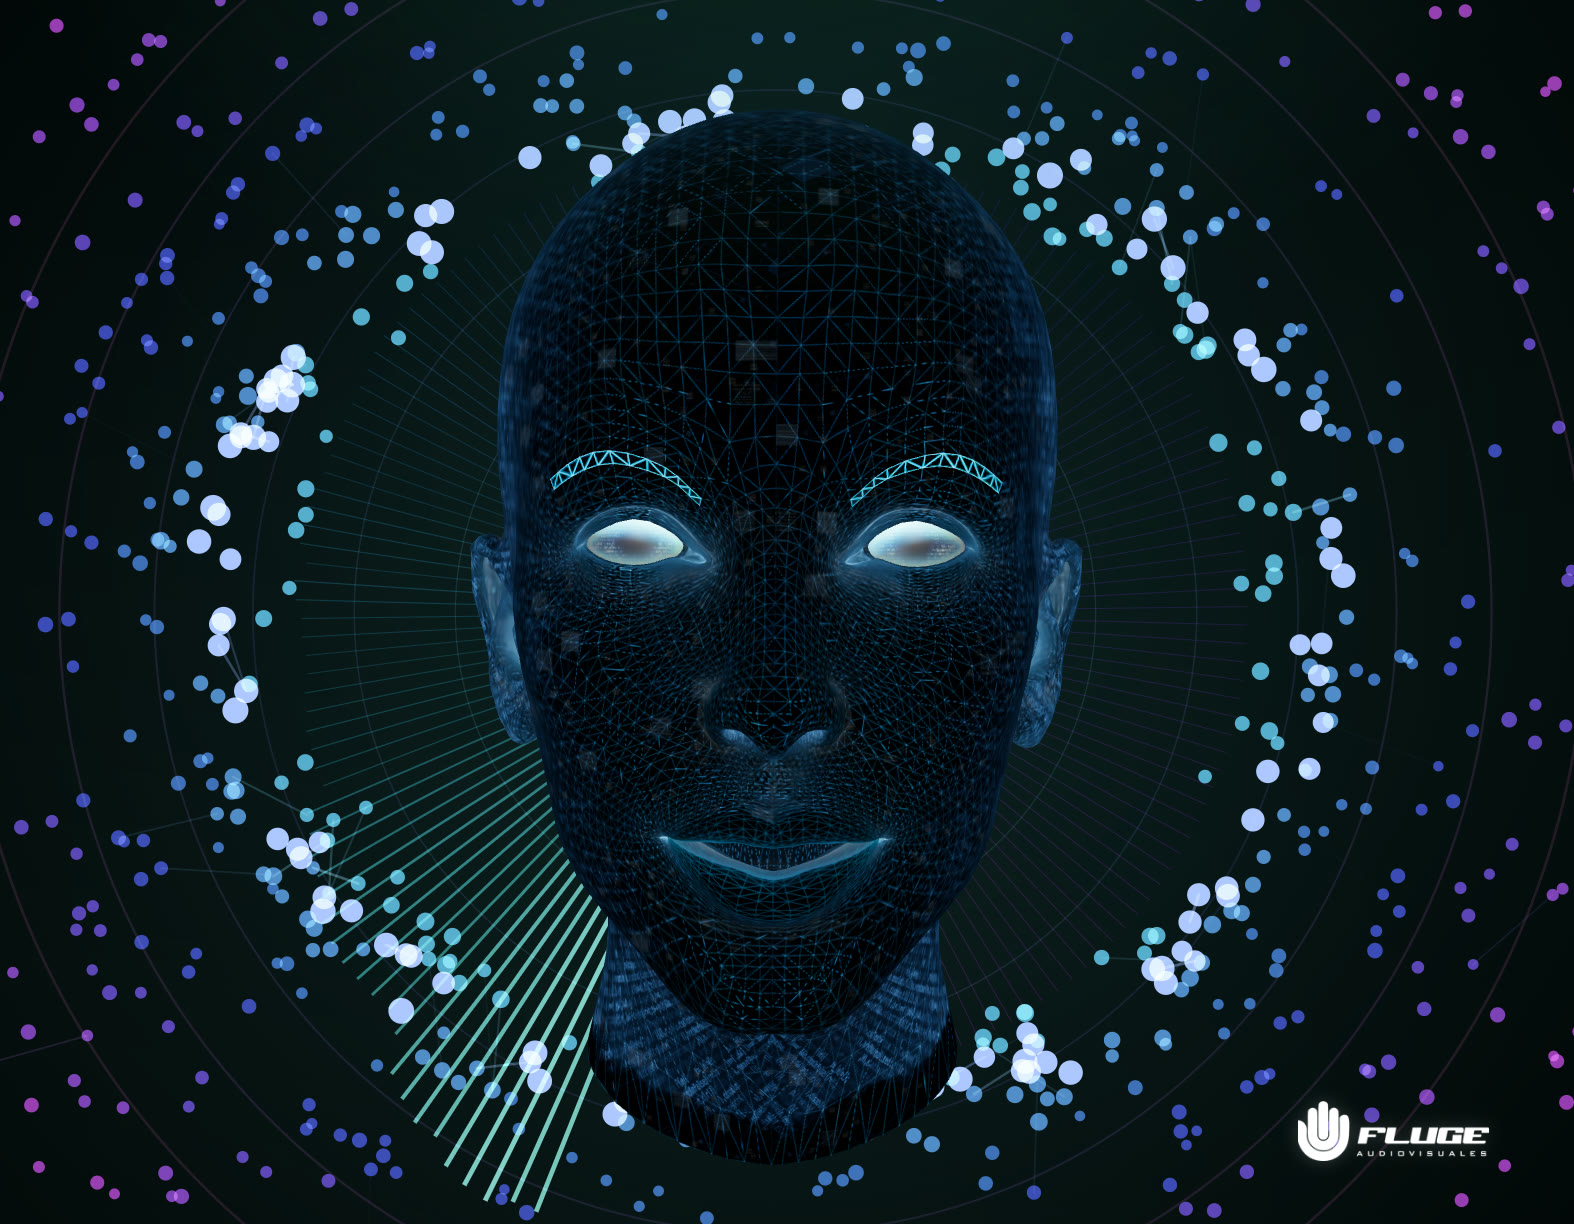
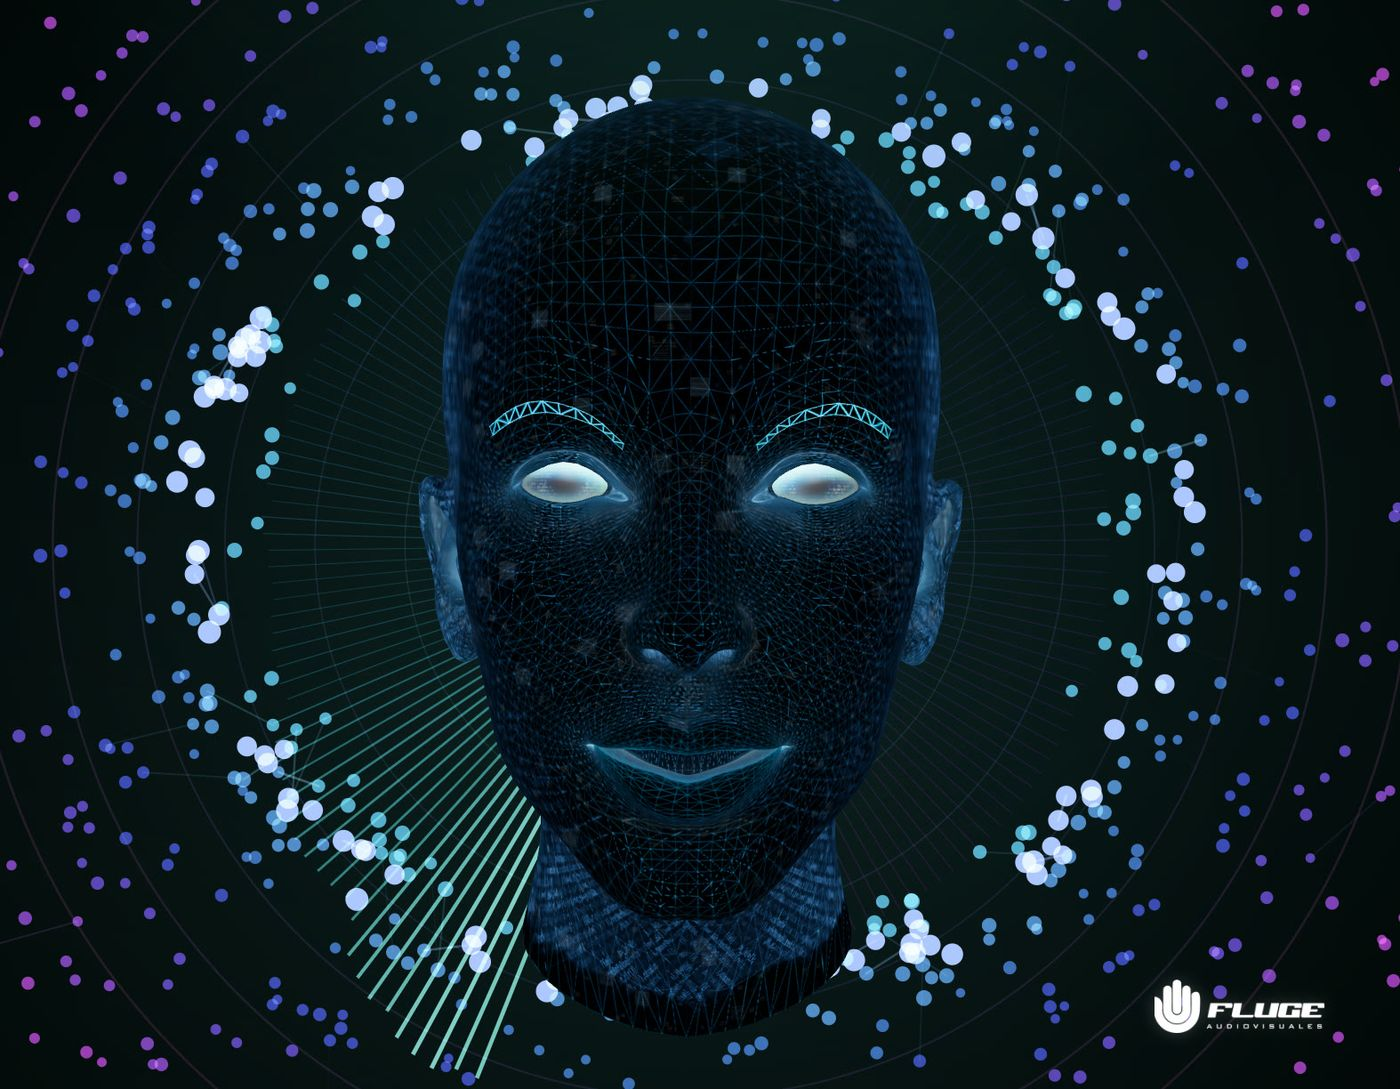
perf: evita cargar el robot 3D (Spline, ~2MB) sin necesidad y comprime imágenes
- El robot de escritorio (StickyRobotSection) cargaba el chunk de Spline en
  cuanto isDesktop pasaba a true, sin esperar a que el usuario llegara a esa
  sección (900vh más abajo). Ahora se gatea con IntersectionObserver.
- El robot del hero móvil también podía dispararse en viewports de escritorio
  (solo estaba oculto por CSS, seguía montado); ahora se limita a !isDesktop.
- Comprime abstract.jpg (2.1MB→82KB), flower-arc.jpg (857KB→196KB),
  viky-fluge.jpg (444KB→202KB) y el logo (532KB→71KB, conserva transparencia).

Changed region(s): [[0.5529, 0.3747, 0.645, 0.4059], [0.3993, 0.3747, 0.43, 0.4059], [0.3379, 0.3747, 0.3686, 0.4059]]

diff --git a/src/AiaSomnisPage.tsx b/src/AiaSomnisPage.tsx
@@ -748,6 +748,20 @@ function StickyRobotSection({ ready, lang }: { ready: boolean; lang: Lang }) {
   const wrapperRef = useRef<HTMLDivElement>(null)
   const { scrollYProgress: p } = useScroll({ target: wrapperRef, offset: ['start start', 'end end'] })
   const [logoVisible, setLogoVisible] = useState(false)
+  const [robotInView, setRobotInView] = useState(false)
+
+  // El robot 3D (Spline) pesa ~2MB — sin este observer, el <Suspense> de abajo
+  // dispara el import() en cuanto isDesktop pasa a true (justo tras el primer
+  // paint), aunque el usuario nunca llegue a bajar hasta esta seccion.
+  useEffect(() => {
+    const el = wrapperRef.current
+    if (!el) return
+    const obs = new IntersectionObserver(([e]) => {
+      if (e.isIntersecting) { setRobotInView(true); obs.disconnect() }
+    }, { rootMargin: '800px' })
+    obs.observe(el)
+    return () => obs.disconnect()
+  }, [])
 
   // Logo aparece cuando ready=true, desaparece cuando las cards empiezan a llegar
   useEffect(() => { if (ready) setLogoVisible(true) }, [ready])
@@ -795,17 +809,21 @@ function StickyRobotSection({ ready, lang }: { ready: boolean; lang: Lang }) {
           height: 'clamp(320px, 55vw, 700px)',
           zIndex: 1,
         }}>
-          <Suspense fallback={
-            <div style={{ width: '100%', height: '100%', display: 'flex', alignItems: 'center', justifyContent: 'center' }}>
-              <div className="w-12 h-12 rounded-full border-2 border-transparent animate-spin"
-                style={{ borderTopColor: C.blue, borderRightColor: `${C.blue}30` }} />
-            </div>
-          }>
-            <Spline
-              scene="https://prod.spline.design/kZDDjO5HuC9GJUM2/scene.splinecode"
-              style={{ width: '100%', height: '100%' }}
-            />
-          </Suspense>
+          {robotInView ? (
+            <Suspense fallback={
+              <div style={{ width: '100%', height: '100%', display: 'flex', alignItems: 'center', justifyContent: 'center' }}>
+                <div className="w-12 h-12 rounded-full border-2 border-transparent animate-spin"
+                  style={{ borderTopColor: C.blue, borderRightColor: `${C.blue}30` }} />
+              </div>
+            }>
+              <Spline
+                scene="https://prod.spline.design/kZDDjO5HuC9GJUM2/scene.splinecode"
+                style={{ width: '100%', height: '100%' }}
+              />
+            </Suspense>
+          ) : (
+            <div style={{ width: '100%', height: '100%' }} />
+          )}
         </motion.div>
 
         {/* Logo MAIGIA + tagline — aparece al cargar, se desvanece antes de que lleguen las cards */}
@@ -1386,7 +1404,7 @@ export default function AiaSomnisPage() {
             position: 'relative',
             pointerEvents: 'auto',
           }}>
-            {splineInView && splineReady ? (
+            {!isDesktop && splineInView && splineReady ? (
               <Suspense fallback={
                 <div className="w-full h-full flex items-center justify-center">
                   <div className="w-10 h-10 rounded-full border-2 border-transparent animate-spin"
